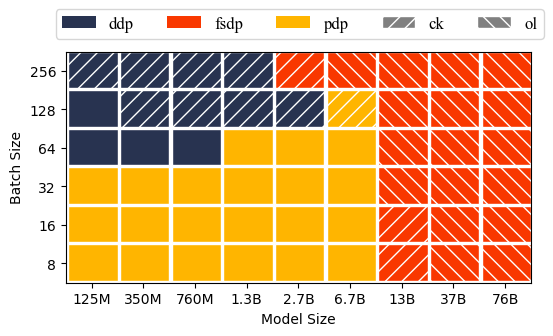
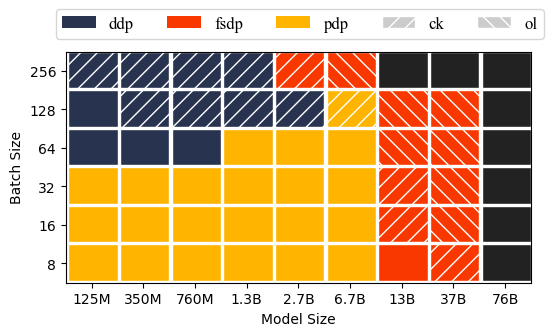
adding more data

diff --git a/draw_network.py b/draw_network.py
@@ -26,8 +26,8 @@ INF = float("inf")
 
 ddp = [
   [125,   350,   760,   1300,  2700,  6700,  13000, 39000,  76000],  # model size
-  [0.26,  0.73,  1.50,  2.18,  4.31,  INF,  INF,   INF,    INF],    # bs=8
-  [2195,  4872,  7581,  11355, 20267, INF,  INF,   INF,    INF],    # mem
+  [0.26,  0.73,  1.50,  2.18,  4.31,  INF,   INF,   INF,    INF],    # bs=8
+  [2195,  4872,  7581,  11355, 20267, INF,   INF,   INF,    INF],    # mem
   ["no",  "no",  "no",  "no",  "no",  "",    "",    "",     ""],     # config
   [0.26,  0.72,  1.35,  2.77,  4.45,  INF,   INF,   INF,    INF],    # bs=16
   [3625,  8014,  11554, 16748, 17435, INF,   INF,   INF,    INF],
@@ -48,24 +48,24 @@ ddp = [
 
 fsdp = [
   [125,   350,   760,   1300,  2700,  6700,  13000, 39000,  76000],  # model size
-  [0.45,  1.19,  2.14,  4.04,  7.01,  16.10, 0.00,  0.00,   0.00],   # bs=8
-  [1676,  3570,  4768,  6510,  10772, 16673, 0000,  0000,   0000],   # mem
-  ["no",  "no",  "no",  "no",  "no",  "no",  "cp",  "ol",   "ol"],     # config
-  [0.46,  1.16,  2.01,  4.25,  7.05,  19.13, 0.00,  0.00,   0.00],   # bs=16
-  [3109,  6711,  8721,  11908, 19546, 28764, 0000,  0000,   0000],
-  ["no",  "no",  "no",  "no",  "no",  "no",  "cp",  "ol",   "ol"], 
-  [0.49,  1.31,  2.18,  4.26,  8.96,  25.49, 0.00,  0.00,   0.00],   # bs=32
-  [5990,  12999, 16735, 22756, 37219, 8535,  0000,  0000,   0000],
-  ["no",  "no",  "no",  "no",  "no",  "cp",  "ol",  "ol",   "ol"], 
-  [0.52,  1.24,  2.26,  5.78,  10.69, 24.97, 0.00,  0.00,   0.00],   # bs=64
-  [11751, 25569  23757, 6244,  8414,  9219,  0000,  0000,   0000],
-  ["no",  "no",  "no",  "cp",  "cp",  "ol",  "ol",  "ol",   "ol"], 
-  [0.61,  INF,   3.49,  6.26,  10.78, 26.05, 0.00,  0.00,   0.00],   # bs=128
-  [23275, INF,   10032, 11432, 10138, 14750, 0000,  0000,   0000],
-  ["no",  "",    "cp",  "cp",  "cp",  "ol",  "ol",  "ol",   "ol"], 
-  [0.97,  INF,   4.07,  9.23,  13.62, 41.06, 0.00,  0.00,   0.00],   # bs=256
-  [14896, INF,   19352, 22068, 29185, 25809, 0000,  0000,   0000],
-  ["cp",  "",    "cp",  "cp",  "cp",  "ol",  "ol",  "ol",   "ol"], 
+  [0.45,  1.19,  2.14,  4.04,  7.01,  16.10, 44.02, 116.36, INF],   # bs=8
+  [1676,  3570,  4768,  6510,  10772, 16673, 33291, 21383,  INF],   # mem
+  ["no",  "no",  "no",  "no",  "no",  "no",  "no",  "cp",   ""],     # config
+  [0.46,  1.16,  2.01,  4.25,  7.05,  19.13, 52.83, 112.48, INF],   # bs=16
+  [3109,  6711,  8721,  11908, 19546, 28764, 12191, 20678,  INF],
+  ["no",  "no",  "no",  "no",  "no",  "no",  "cp",  "ol",   ""], 
+  [0.49,  1.31,  2.18,  4.26,  8.96,  25.49, 56.25, 118.36, INF],   # bs=32
+  [5990,  12999, 16735, 22756, 37219, 8535,  15880, 22777,  INF],
+  ["no",  "no",  "no",  "no",  "no",  "cp",  "cp",  "ol",   ""], 
+  [0.52,  1.24,  2.26,  5.78,  10.69, 24.97, 60.64, 139.11, INF],   # bs=64
+  [11751, 25569, 23757, 6244,  8414,  9219,  15238, 27287,  INF],
+  ["no",  "no",  "no",  "cp",  "cp",  "ol",  "ol",  "ol",   ""], 
+  [0.61,  1.72,  3.49,  6.26,  10.78, 26.05, 72.58, 182.90, INF],   # bs=128
+  [23275, 8823,  10032, 11432, 10138, 14750, 21957, 36308,  INF],
+  ["no",  "cp",  "cp",  "cp",  "cp",  "ol",  "ol",  "ol",   ""], 
+  [0.97,  2.45,  4.07,  9.23,  13.62, 41.06, INF,   INF,    INF],   # bs=256
+  [14896, 17219, 19352, 22068, 29185, 25809, INF,   INF,    INF],
+  ["cp",  "cp",  "cp",  "cp",  "cp",  "ol",  "",    "",     ""], 
 ]
 
 
@@ -93,6 +93,10 @@ pdp = [
 ]
 
 
+# add the following test with wrap=linear and cpu_offload=True
+# srun --label launch_cluster_fsdp.sh GPT76B 8 offload
+
+
 
 def plot_network(nnode, show=True):
   plt.figure(figsize=(6, 3))
@@ -111,7 +115,7 @@ def plot_network(nnode, show=True):
 
       delays = [ddp[row][col], fsdp[row][col], pdp[row][col]]
       index = delays.index(min(delays))
-      color = COLORS[index]
+      color = 'w' if delays[index] == INF else COLORS[index]
       hatch_strs = [ddp[row + 2][col], fsdp[row + 2][col], pdp[row + 2][col]]
       hatch = HATCHS[hatch_strs[index][:2]]
 
@@ -141,8 +145,8 @@ def plot_network(nnode, show=True):
     Patch(facecolor=COLORS[0], label='ddp'),
     Patch(facecolor=COLORS[1], label='fsdp'),
     Patch(facecolor=COLORS[2], label='pdp'),
-    Patch(facecolor='grey', edgecolor='w', hatch="//", label='ck'),
-    Patch(facecolor='grey', edgecolor='w', hatch="\\\\", label='ol'),
+    Patch(facecolor='#cccccc', edgecolor='w', hatch="//", label='ck'),
+    Patch(facecolor='#cccccc', edgecolor='w', hatch="\\\\", label='ol'),
   ]
 
   plt.legend( 
@@ -164,8 +168,32 @@ plot_network(nnode=4, show=False)
 
 
 
+ddp = [
+  [125,   350,   760,   1300,  2700,  6700,  13000, 39000,  76000],  # model size
+  [0.07,  0.12,  0.12,  0.20,  0.29,  INF,   INF,   INF,    INF],    # bs=8
+  [2192,  4872,  7558,  11350, 20243, INF,   INF,   INF,    INF],    # mem
+  ["no",  "no",  "no",  "no",  "no",  "",    "",    "",     ""],     # config
+  [0.08,  0.15,  0.20,  0.38,  0.51,  INF,   INF,   INF,    INF],    # bs=16
+  [3625,  8013,  11514, 16749, 29072, INF,   INF,   INF,    INF],
+  ["no",  "no",  "no",  "no",  "no",  "",    "",    "",     ""],
+  [0.11,  0.23,  0.34,  0.67,  1.19,  INF,   INF,   INF,    INF],    # bs=32
+  [6499,  14301, 19527, 27598, 18490, INF,   INF,   INF,    INF],
+  ["no",  "no",  "no",  "no",  "cp",  "",    "",    "",     ""],
+  [0.17,  0.39,  0.59,  1.71,  2.21,  INF,   INF,   INF,    INF],    # bs=64
+  [12259, 26871, 35556, 12730, 20652, INF,   INF,   INF,    INF],
+  ["no",  "no",  "no",  "no",  "cp",  "",    "",    "",     ""],
+  [0.30,  0.95,  1.51,  3.29,  4.25,  INF,   INF,   INF,    INF],    # bs=128
+  [23783, 13405, 16099, 19509, 27190, INF,   INF,   INF,    INF],
+  ["no",  "cp",  "cp",  "cp",  "cp",  "",    "",    "",     ""],
+  [0.72,  1.83,  2.93,  6.49,  INF,   INF,   INF,   INF,    INF],    # bs=256
+  [21958, 25079, 28695, 33050, INF,   INF,   INF,   INF,    INF],
+  ["cp",  "cp",  "cp",  "cp",  "",    "",    "",    "",     ""], 
+]
 
 
+fsdp = [
+  [125,   350,   760,   1300,  2700,  6700,  13000, 39000,  76000],  # model size
+]
 
 
 
